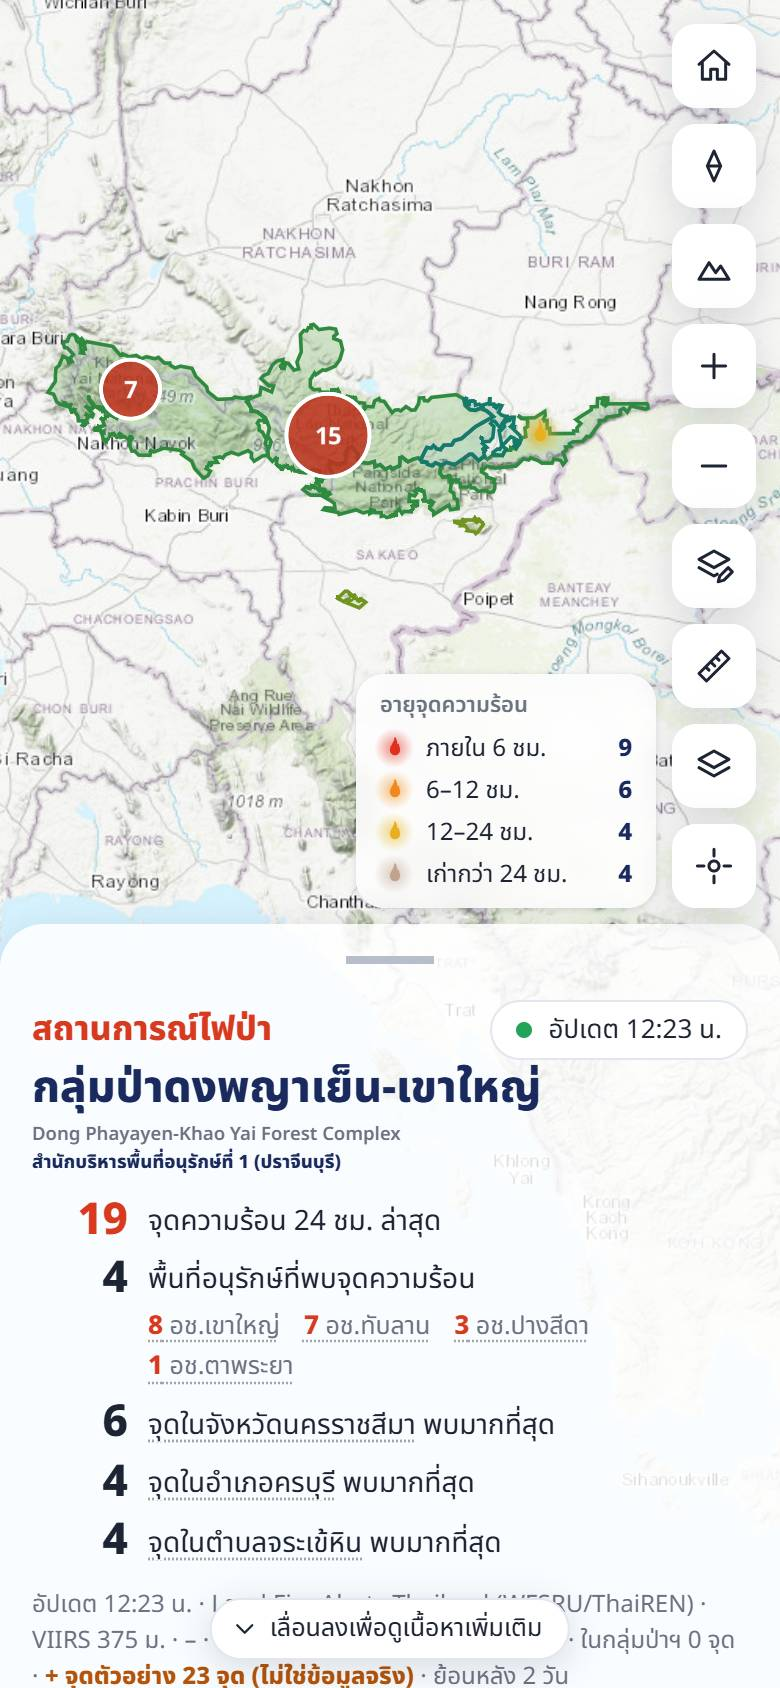
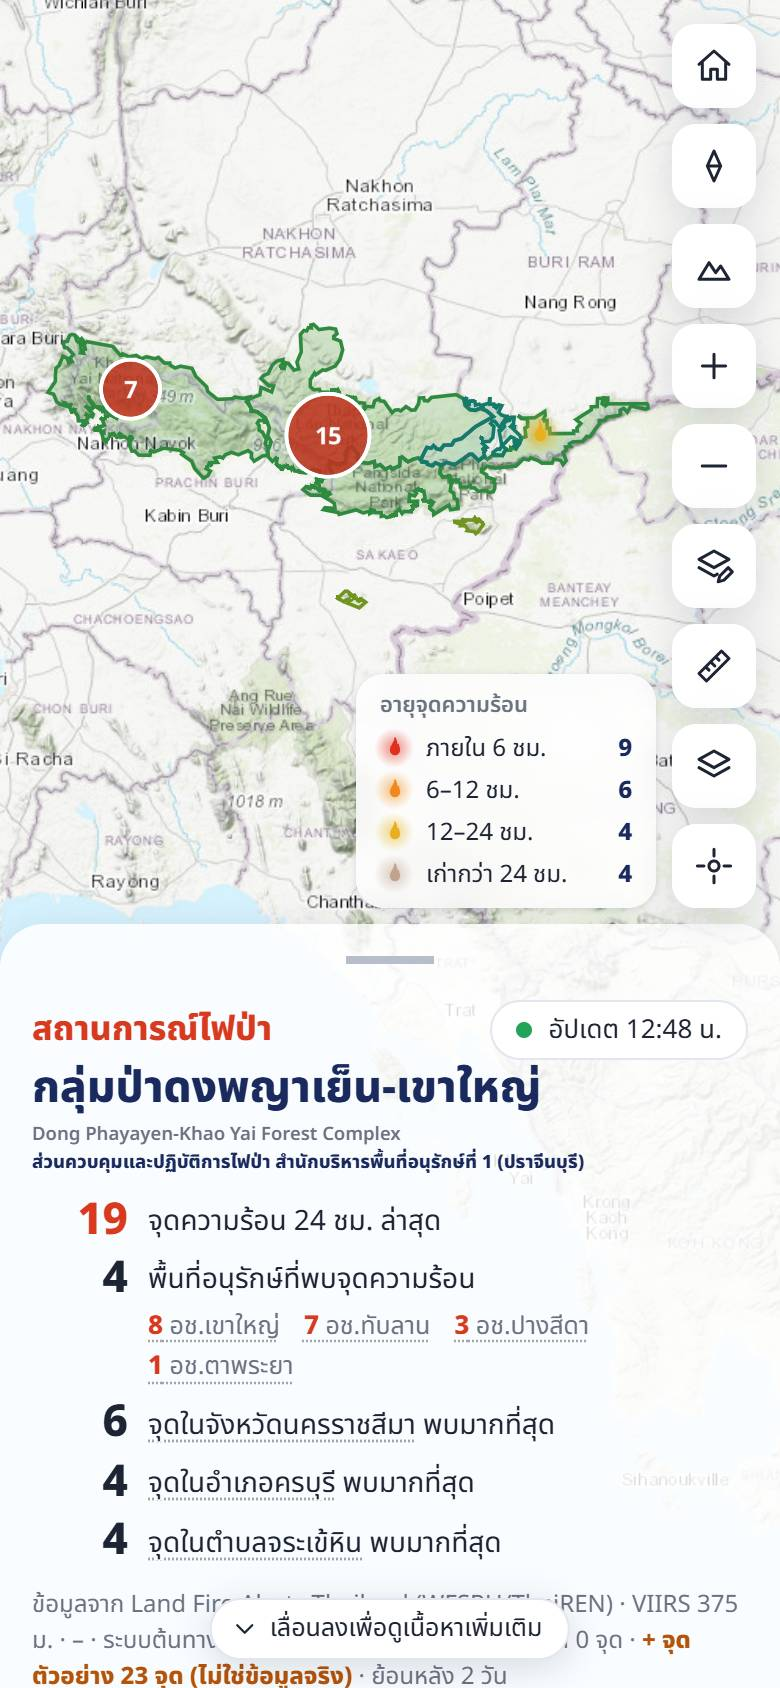
แผงซ้าย: เพิ่ม "ส่วนควบคุมและปฏิบัติการไฟป่า" ในหัว · บรรทัดที่มาขึ้นต้น "ข้อมูลจาก" (ตัดเวลาอัปเดตซ้ำ) · ปุ่มเมนูหลักเป็นกริด 2 คอลัมน์เต็มความกว้าง มีไอคอนทุกปุ่ม · คู่มือ: ภาพหน้าจอหลัก/มือถือใหม่ + ตำแหน่งหมายเลขกำกับ

diff --git a/index.html b/index.html
@@ -47,7 +47,7 @@ h1{margin:0 0 10px;font-size:clamp(22px,3vw,36px);line-height:1.2;font-weight:80
 h1 small{display:block;font-size:.42em;font-weight:600;color:var(--mut);margin-top:4px}
 .hrow{display:flex;align-items:center;justify-content:space-between;gap:10px;margin:0 0 2px}.h1a{font-size:clamp(17px,1.9vw,23px);font-weight:800;color:#D93A1F;line-height:1.2}.hrow .pill{flex:0 0 auto}.h1m{display:block;white-space:nowrap}
 .st .sl{grid-column:1/-1;display:flex;flex-wrap:wrap;gap:3px 12px;font-size:12.5px;color:var(--mut);margin:-1px 0 3px 58px;line-height:1.35}.st .sl span{white-space:nowrap}.zl{cursor:pointer;color:inherit;text-decoration:underline dotted rgba(0,0,0,.35);text-underline-offset:3px}.zl:hover{color:var(--fire)}.st .sl b{color:var(--fire);font-weight:800;font-size:13px}
-.dmr{display:flex;align-items:center;gap:8px;margin:6px 0 2px;font-size:12.5px;color:var(--mut)}.dmr .sw{flex:0 0 auto}h1 .h1o{margin-top:2px;color:var(--navy);font-weight:700}
+.dmr{display:flex;align-items:center;gap:8px;margin:6px 0 2px;font-size:12.5px;color:var(--mut)}.dmr .sw{flex:0 0 auto}h1 .h1o span{display:inline-block}h1 .h1o{margin-top:2px;color:var(--navy);font-weight:700}
 .pill{display:inline-flex;gap:8px;align-items:center;background:var(--bg);border:1px solid var(--line);border-radius:99px;padding:4px 12px;font-size:13px}
 .pill i{width:8px;height:8px;border-radius:50%;background:#22a559}
 .desc{font-size:14px;color:var(--ink);opacity:.8;margin:10px 0;max-width:340px}
@@ -55,7 +55,9 @@ h1 small{display:block;font-size:.42em;font-weight:600;color:var(--mut);margin-t
 .st b{text-align:right;font-size:22px;line-height:1.25;font-weight:800}
 .st b:first-child{color:var(--fire)}.st span{align-self:center}
 .sm{font-size:12px;color:var(--mut)}
-.btns{display:flex;flex-wrap:wrap;gap:8px;margin:12px 0}#bDev{display:flex;align-items:center;justify-content:center;gap:5px;width:min(335px,100%);margin:12px 0 0;padding:8px;border:0;background:var(--glass);backdrop-filter:blur(6px);box-shadow:0 1px 4px rgba(20,30,60,.12);font:inherit;font-size:12px;color:var(--mut);text-align:center;cursor:pointer;border-radius:20px}#bDev:hover{color:var(--navy);background:var(--sel)}#bDev .i{width:14px;height:14px;flex:none}#bDev b{font-weight:600;color:var(--ink)}#bDev:hover b{color:var(--navy)}.dvb{display:flex;gap:14px;align-items:flex-start}.dvb .dva{flex:none;width:52px;height:52px;border-radius:50%;background:var(--sel);color:var(--navy);display:grid;place-items:center}.dvb .dva .i{width:26px;height:26px}.dvb p{margin:0 0 4px;line-height:1.6}.dvb .dvn{font-size:17px;font-weight:700;color:var(--navy)}.dvb .dvo{color:var(--mut);font-size:13.5px}.btn[aria-pressed=true]{background:var(--sel);color:var(--navy)}
+.btns{display:grid;grid-template-columns:1fr 1fr;gap:8px;margin:12px 0} /* 2 คอลัมน์เท่ากัน กว้างเต็มแผงเสมอกับกล่องบน-ล่าง (ผู้ใช้ขอ 5 พ.ย. 69) */
+.btns>.btn{justify-content:flex-start;min-width:0;min-height:42px;padding:6px 12px;line-height:1.25;text-align:left}.btns>.btn span{min-width:0}
+@media(max-width:767px){.btns>.btn{padding:6px 10px;gap:5px;font-size:12.5px}}#bDev{display:flex;align-items:center;justify-content:center;gap:5px;width:min(335px,100%);margin:12px 0 0;padding:8px;border:0;background:var(--glass);backdrop-filter:blur(6px);box-shadow:0 1px 4px rgba(20,30,60,.12);font:inherit;font-size:12px;color:var(--mut);text-align:center;cursor:pointer;border-radius:20px}#bDev:hover{color:var(--navy);background:var(--sel)}#bDev .i{width:14px;height:14px;flex:none}#bDev b{font-weight:600;color:var(--ink)}#bDev:hover b{color:var(--navy)}.dvb{display:flex;gap:14px;align-items:flex-start}.dvb .dva{flex:none;width:52px;height:52px;border-radius:50%;background:var(--sel);color:var(--navy);display:grid;place-items:center}.dvb .dva .i{width:26px;height:26px}.dvb p{margin:0 0 4px;line-height:1.6}.dvb .dvn{font-size:17px;font-weight:700;color:var(--navy)}.dvb .dvo{color:var(--mut);font-size:13.5px}.btn[aria-pressed=true]{background:var(--sel);color:var(--navy)}
 .btn{display:inline-flex;align-items:center;gap:6px;min-height:40px;padding:0 14px;background:var(--bg);border:0;border-radius:14px;box-shadow:var(--sh);font-size:13px}
 a.btn{color:inherit;text-decoration:none;cursor:pointer}
 .card{background:var(--bg);border-radius:20px;box-shadow:var(--sh);width:min(335px,100%);padding:12px}
@@ -446,17 +448,17 @@ hr.l{border:0;border-top:1px solid var(--line);margin:10px 0}
  <button id="grab" aria-label="ขยายหรือย่อแผง"></button>
  <div class="lhd">
  <div class="hrow"><span class="h1a">สถานการณ์ไฟป่า</span><div class="pill"><i></i><span>อัปเดต <span class="tm">--:--</span> น.</span></div></div>
- <h1><span class="h1m">กลุ่มป่าดงพญาเย็น-เขาใหญ่</span><small>Dong Phayayen-Khao Yai Forest Complex</small><small class="h1o">สำนักบริหารพื้นที่อนุรักษ์ที่ 1 (ปราจีนบุรี)</small></h1>
+ <h1><span class="h1m">กลุ่มป่าดงพญาเย็น-เขาใหญ่</span><small>Dong Phayayen-Khao Yai Forest Complex</small><small class="h1o"><span>ส่วนควบคุมและปฏิบัติการไฟป่า</span> <span>สำนักบริหารพื้นที่อนุรักษ์ที่ 1 (ปราจีนบุรี)</span></small></h1>
  <div class="st" id="stats"></div>
- <div class="sm">อัปเดต <span class="tm">--:--</span> น. · <span id="hsrc">กำลังดึงข้อมูล…</span> · ย้อนหลัง 2 วัน</div>
+ <div class="sm">ข้อมูลจาก <span id="hsrc">กำลังดึงข้อมูล…</span> · ย้อนหลัง 2 วัน</div>
  <div class="dmr"><button class="sw" id="bDemo" role="switch" aria-label="แสดงจุดความร้อนตัวอย่าง"></button><span>แสดง<b>จุดความร้อนตัวอย่าง</b>ในผืนป่า (ชั่วคราว เพื่อดูการแสดงผลระหว่างยังไม่ถึงฤดูไฟป่า)</span></div>
  </div>
  <div class="btns">
   <button class="btn" id="bHide" aria-pressed="true" title="แสดง/ซ่อนการ์ดจุดความร้อนที่ตรวจพบ"><svg class="i" viewBox="0 0 24 24"><path d="M12 3c1 3.5 5 5.5 5 10a5 5 0 01-10 0c0-2.5 1.5-4 2.5-5.5.3 1.6 1 2.6 2 3 0-3 .5-5.5.5-7.5z"/></svg><span>จุดความร้อนที่ตรวจพบ</span></button>
   <button class="btn" id="bKnow" title="ความสำคัญ ประวัติ ทรัพยากร สัตว์ป่า แหล่งท่องเที่ยว รายพื้นที่อนุรักษ์"><svg class="i" viewBox="0 0 24 24"><path d="M5 19c9 0 14-6 14-14-8 0-14 5-14 14zM5 19l6-6"/></svg>ความสำคัญ</button>
   <button class="btn" id="bWy" title="แผนที่พยากรณ์อากาศ Windy: ลม ฝน ฟ้าคะนอง อุณหภูมิ ความชื้น เมฆ ฝุ่น"><svg class="i" viewBox="0 0 24 24"><path d="M3 8h11a3 3 0 10-3-3M3 12h16a3 3 0 11-3 3M3 16h7"/></svg>พยากรณ์อากาศ</button>
-  <button class="btn" id="bStat">วิเคราะห์สถิติย้อนหลัง</button>
-  <button class="btn" id="bPlay">ย้อนดูการลามของไฟ</button>
+  <button class="btn" id="bStat"><svg class="i" viewBox="0 0 24 24"><path d="M4 20h16M7 16v-5M12 16V6M17 16v-8"/></svg>วิเคราะห์สถิติย้อนหลัง</button>
+  <button class="btn" id="bPlay"><svg class="i" viewBox="0 0 24 24"><path d="M3 12a9 9 0 109-9 9 9 0 00-6.4 2.6L3 8M3 3v5h5M12 7v5l3 2"/></svg>ย้อนดูการลามของไฟ</button>
   <a class="btn" id="bMan" href="manual/index.html" target="_blank" rel="noopener" title="คู่มือการใช้งาน: ส่วนประกอบหน้าจอ เมนู ชั้นข้อมูล ที่มาข้อมูล วิธีคิด และการอ้างอิง"><svg class="i" viewBox="0 0 24 24"><path d="M4 5a2 2 0 012-2h13v16H6a2 2 0 00-2 2zM4 21V5M9 7h6"/></svg>คู่มือการใช้งาน</a>
  </div>
  <div class="card" id="pcard" aria-label="สรุปจุดความร้อนที่ตรวจพบ">

diff --git a/manual/index.html b/manual/index.html
@@ -160,7 +160,7 @@ mark{background:#ffe58a;border-radius:3px}
 <p>เมื่อเปิดเว็บบนคอมพิวเตอร์ หน้าจอแบ่งเป็นส่วนต่างๆ ตามหมายเลขในภาพ</p>
 <figure>
  <div class="ann"><img src="img/overview.jpg" width="1440" height="860" alt="หน้าจอหลักของแผนที่บนคอมพิวเตอร์ พร้อมหมายเลขกำกับแต่ละส่วน" loading="lazy">
-  <i style="left:25%;top:26.7%">1</i><i style="left:22.9%;top:66.4%">2</i><i style="left:25%;top:74.4%">3</i><i style="left:28.6%;top:44.8%">4</i><i style="left:38.9%;top:24.7%">5</i><i style="left:83.3%;top:88.4%">6</i><i style="left:35.8%;top:98.6%">7</i>
+  <i style="left:25%;top:27.4%">1</i><i style="left:27.5%;top:63.1%">2</i><i style="left:25%;top:77%">3</i><i style="left:28.6%;top:44.8%">4</i><i style="left:38.9%;top:24.7%">5</i><i style="left:83.3%;top:88.4%">6</i><i style="left:35.8%;top:98.6%">7</i>
  </div>
  <figcaption>หน้าจอหลักบนคอมพิวเตอร์ (เปิดสวิตช์ "จุดความร้อนตัวอย่าง" ไว้ เพื่อให้เห็นการแสดงผลเมื่อมีจุดความร้อน — จุดในภาพไม่ใช่ข้อมูลจริง)</figcaption>
 </figure>
@@ -169,7 +169,7 @@ mark{background:#ffe58a;border-radius:3px}
  <b>2</b><div><b>ปุ่มเมนูหลัก</b> 6 ปุ่ม ดู <a href="#menu">ปุ่มเมนูหลัก</a></div>
  <b>3</b><div><b>การ์ดจุดความร้อนที่ตรวจพบ</b> — สรุปตัวเลข เทียบปีงบก่อน กราฟสะสม รายการแยกพื้นที่ ตาราง/CSV/รายงาน ดู <a href="#card">การ์ดจุดความร้อน</a></div>
  <b>4</b><div><b>ปุ่มพับแผงซ้าย</b> — ซ่อนแผงซ้ายไปด้านข้างเพื่อให้เห็นแผนที่เต็มจอ กดอีกครั้งเพื่อเปิด (บนแท็บเล็ตปัดแผงไปทางซ้ายได้)</div>
- <b>5</b><div><b>แผนที่และจุดความร้อน</b> — เส้นสีเขียว = แนวเขตพื้นที่อนุรักษ์ · จุดไฟแดง/ส้ม/น้ำตาล = จุดความร้อนตามอายุ · คลิกจุดหรือตำแหน่งใดก็ได้เพื่อดูข้อมูล ดู <a href="#map">การใช้แผนที่</a></div>
+ <b>5</b><div><b>แผนที่และจุดความร้อน</b> — เส้นสีเขียว = แนวเขตพื้นที่อนุรักษ์ · จุดไฟแดง/ส้ม/เหลือง/น้ำตาล = จุดความร้อนตามอายุ (กล่อง "อายุจุดความร้อน" มุมขวาล่างบอกความหมายและจำนวน) · คลิกจุดหรือตำแหน่งใดก็ได้เพื่อดูข้อมูล ดู <a href="#map">การใช้แผนที่</a></div>
  <b>6</b><div><b>ปุ่มควบคุมแผนที่</b> — ตำแหน่งของฉัน ชั้นข้อมูล วัดระยะ วาด ซูม 3 มิติ ทิศเหนือ กลับหน้าแรก ดู <a href="#ctl">ปุ่มควบคุมแผนที่</a></div>
  <b>7</b><div><b>แหล่งที่มาของข้อมูล</b> (เครดิต) — ชี้เมาส์ที่ปุ่มแผนที่ฐานในแผงชั้นข้อมูลเพื่อดูที่มาของแผนที่ฐานที่ใช้อยู่</div>
 </div>
@@ -209,8 +209,8 @@ mark{background:#ffe58a;border-radius:3px}
 <tr><td><span class="btnl"><svg class="i" viewBox="0 0 24 24"><path d="M12 3c1 3.5 5 5.5 5 10a5 5 0 01-10 0c0-2.5 1.5-4 2.5-5.5.3 1.6 1 2.6 2 3 0-3 .5-5.5.5-7.5z"/></svg> จุดความร้อนที่ตรวจพบ</span></td><td>แสดง/ซ่อน <a href="#card">การ์ดจุดความร้อน</a> (ปุ่มเป็นสีเมื่อการ์ดแสดงอยู่)</td></tr>
 <tr><td><span class="btnl"><svg class="i" viewBox="0 0 24 24"><path d="M5 19c9 0 14-6 14-14-8 0-14 5-14 14zM5 19l6-6"/></svg> ความสำคัญ</span></td><td>เปิดหน้าความรู้ "ความสำคัญของผืนป่า" รายพื้นที่อนุรักษ์ ดู <a href="#know">หน้าความสำคัญ</a></td></tr>
 <tr><td><span class="btnl"><svg class="i" viewBox="0 0 24 24"><path d="M3 8h11a3 3 0 10-3-3M3 12h16a3 3 0 11-3 3M3 16h7"/></svg> พยากรณ์อากาศ</span></td><td>เปิด/ปิดชั้นพยากรณ์อากาศ Windy ซ้อนบนแผนที่ ดู <a href="#windy">พยากรณ์อากาศ Windy</a></td></tr>
-<tr><td><span class="btnl">วิเคราะห์สถิติย้อนหลัง</span></td><td>เปิดการ์ดสถิติจุดความร้อนปีงบ 2561–2569 ดู <a href="#stats">วิเคราะห์สถิติย้อนหลัง</a></td></tr>
-<tr><td><span class="btnl">ย้อนดูการลามของไฟ</span></td><td>เปิดแผงเล่นภาพเคลื่อนไหวจุดความร้อนตามวัน ดู <a href="#play">ย้อนดูการลามของไฟ</a></td></tr>
+<tr><td><span class="btnl"><svg class="i" viewBox="0 0 24 24"><path d="M4 20h16M7 16v-5M12 16V6M17 16v-8"/></svg> วิเคราะห์สถิติย้อนหลัง</span></td><td>เปิดการ์ดสถิติจุดความร้อนปีงบ 2561–2569 ดู <a href="#stats">วิเคราะห์สถิติย้อนหลัง</a></td></tr>
+<tr><td><span class="btnl"><svg class="i" viewBox="0 0 24 24"><path d="M3 12a9 9 0 109-9 9 9 0 00-6.4 2.6L3 8M3 3v5h5M12 7v5l3 2"/></svg> ย้อนดูการลามของไฟ</span></td><td>เปิดแผงเล่นภาพเคลื่อนไหวจุดความร้อนตามวัน ดู <a href="#play">ย้อนดูการลามของไฟ</a></td></tr>
 <tr><td><span class="btnl"><svg class="i" viewBox="0 0 24 24"><path d="M4 5a2 2 0 012-2h13v16H6a2 2 0 00-2 2zM4 21V5M9 7h6"/></svg> คู่มือการใช้งาน</span></td><td>เปิดคู่มือนี้ในแท็บใหม่</td></tr>
 <tr><td><span class="btnl"><svg class="i" viewBox="0 0 24 24"><path d="M12 12a4 4 0 100-8 4 4 0 000 8zM4 21a8 8 0 0116 0"/></svg> พัฒนาโดย …</span></td><td>บรรทัดเล็กท้ายสุดของแผงซ้าย (ต่อจากการ์ดจุดความร้อน) แตะเพื่อดูชื่อและสังกัดของผู้พัฒนาเว็บไซต์ ดู <a href="#dev">ผู้จัดทำ</a></td></tr>
 </table></div>

diff --git a/CLAUDE.md b/CLAUDE.md
@@ -127,7 +127,7 @@
 ## ความชอบ/การตัดสินใจของผู้ใช้ (สำคัญ)
 - ข้อมูลล่าสุดในบรรทัดสถานะ: เวลา "Last update" ของระบบ (ทำแล้ว 30 ต.ค. 69 "ระบบต้นทางอัปเดต …"; อ่านไม่ได้จึง fallback "สแกนล่าสุดทั้งประเทศ … (ไม่พบเวลาอัปเดตของระบบ)"); เวลาสแกนดาวเทียมอยู่ในแผงรายละเอียด ("เวลาที่ดาวเทียมสแกน")
 - แสดงเฉพาะจุดความร้อนในแนวเขตกลุ่มป่า
-- หัวแผงซ้าย: แถว "สถานการณ์ไฟป่า" + ป้าย "อัปเดต HH:MM น." ขวาสุด / "กลุ่มป่าดงพญาเย็น-เขาใหญ่" บรรทัดเดียว / ชื่ออังกฤษ / "สำนักบริหารพื้นที่อนุรักษ์ที่ 1 (ปราจีนบุรี)"
+- หัวแผงซ้าย: แถว "สถานการณ์ไฟป่า" + ป้าย "อัปเดต HH:MM น." ขวาสุด / "กลุ่มป่าดงพญาเย็น-เขาใหญ่" บรรทัดเดียว / ชื่ออังกฤษ / "ส่วนควบคุมและปฏิบัติการไฟป่า" + "สำนักบริหารพื้นที่อนุรักษ์ที่ 1 (ปราจีนบุรี)" ( 2 span inline-block — ตัดบรรทัดระหว่างสองชื่อ, ผู้ใช้เพิ่ม 5 พ.ย. 69) · บรรทัดที่มาใต้ตัวเลข  ขึ้นต้น "ข้อมูลจาก …" (ไม่มี "อัปเดต HH:MM" ซ้ำกับป้ายบนแล้ว) · ปุ่มเมนูหลัก  = กริด 2 คอลัมน์เท่ากัน เต็มความกว้างเสมอกล่องบน-ล่าง ทุกปุ่มมีไอคอน (bStat แท่งกราฟ, bPlay นาฬิกาย้อน — คู่มือใช้ SVG เดียวกัน) (ผู้ใช้ขอ 5 พ.ย. 69 เดิม flex wrap ชิดซ้าย)
 - สรุป: "พื้นที่อนุรักษ์ที่พบจุดความร้อน" + รายชื่อแบบย่อ (อช./ขสป.) เรียงในแถวเดียว
 - สีพื้นที่รับผิดชอบรายสถานีต้องแยกชัด (ปัจจุบันใน `STC`); เนินหอมใช้สีเดียวกับเขาใหญ่ (ด้านทิศใต้)
 - ป๊อปอัปสถานีฯ และจุดเฝ้าระวัง: ไม่ต้องมีชนิดป่า, มีลิงก์ Google Maps; ไอคอนไม่มีกรอบพื้นหลัง · หน่วยดับไฟป่ามีบรรทัดสถานีฯ ที่สังกัดใต้ชื่อ (`STUP`: เนินหอม → สถานีควบคุมไฟป่าเขาใหญ่ (ด้านทิศใต้), ผู้ใช้กำหนด 4 พ.ย. 69) · ป๊อปอัปแตะแผนที่: บรรทัด "รับผิดชอบโดย…" ไม่ต่อท้ายชนิดป่าแล้ว (ซ้ำกับแถวชนิดป่า) · อยู่ในพื้นที่อนุรักษ์แต่ไม่อยู่ในแปลงสถานีฯ ใด = บรรทัด "ไม่มีสถานีควบคุมไฟป่ารับผิดชอบพื้นที่" (`areaHtml`, ผู้ใช้ขอ 4 พ.ย. 69; นอกพื้นที่อนุรักษ์ด้วย = ข้อความเดิม "อยู่นอกพื้นที่อนุรักษ์และพื้นที่รับผิดชอบไฟป่า…")
